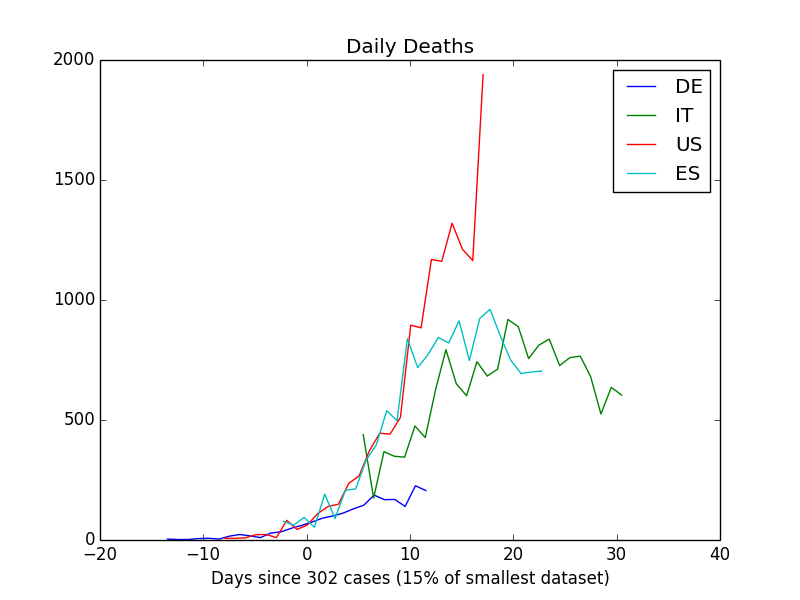
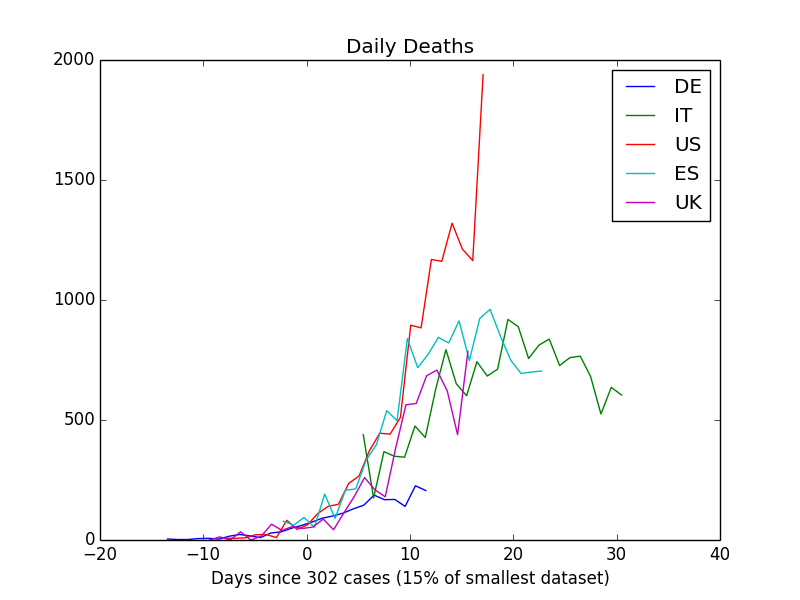
Add UK

diff --git a/create_plots.py b/create_plots.py
@@ -20,12 +20,14 @@ update_date_in_readme()
 case_data = [("DE", data.csse.get_cases("Germany")),
              ("IT", data.csse.get_cases("Italy")),
              ("US", data.csse.get_cases("US")),
-             ("ES", data.csse.get_cases("Spain"))]
+             ("ES", data.csse.get_cases("Spain")),
+             ("UK", data.csse.get_cases("United Kingdom"))]
 
 death_data = [("DE", data.csse.get_deaths("Germany")),
               ("IT", data.csse.get_deaths("Italy")),
               ("US", data.csse.get_deaths("US")),
-              ("ES", data.csse.get_deaths("Spain"))]
+              ("ES", data.csse.get_deaths("Spain")),
+              ("UK", data.csse.get_deaths("United Kingdom"))]
 
 
 plot_normalized_cumulative_data("Confirmed Cases", "figures/cases.png",
